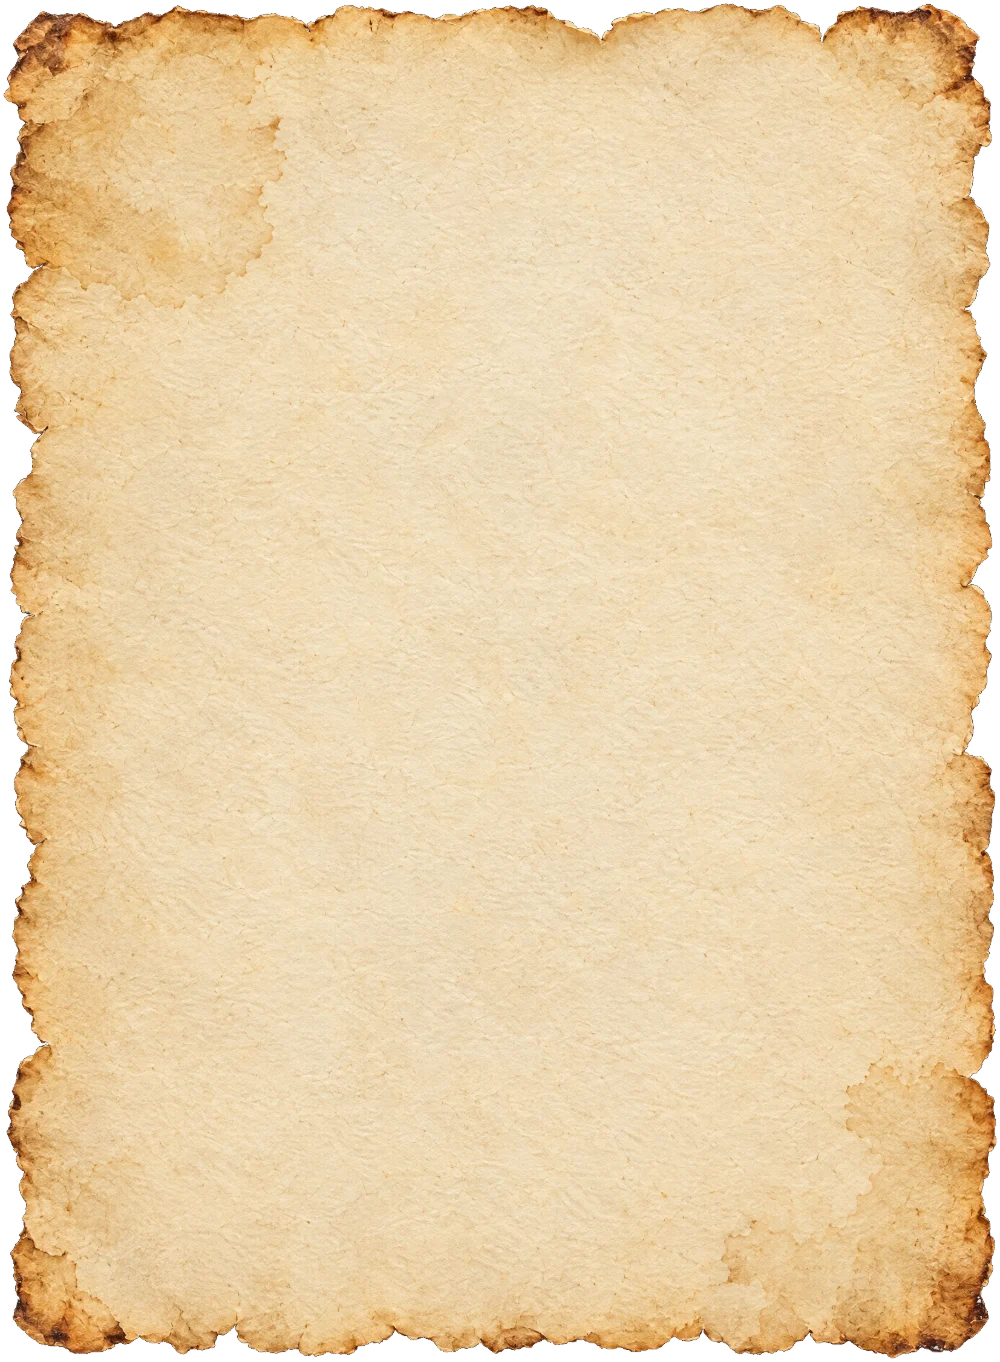
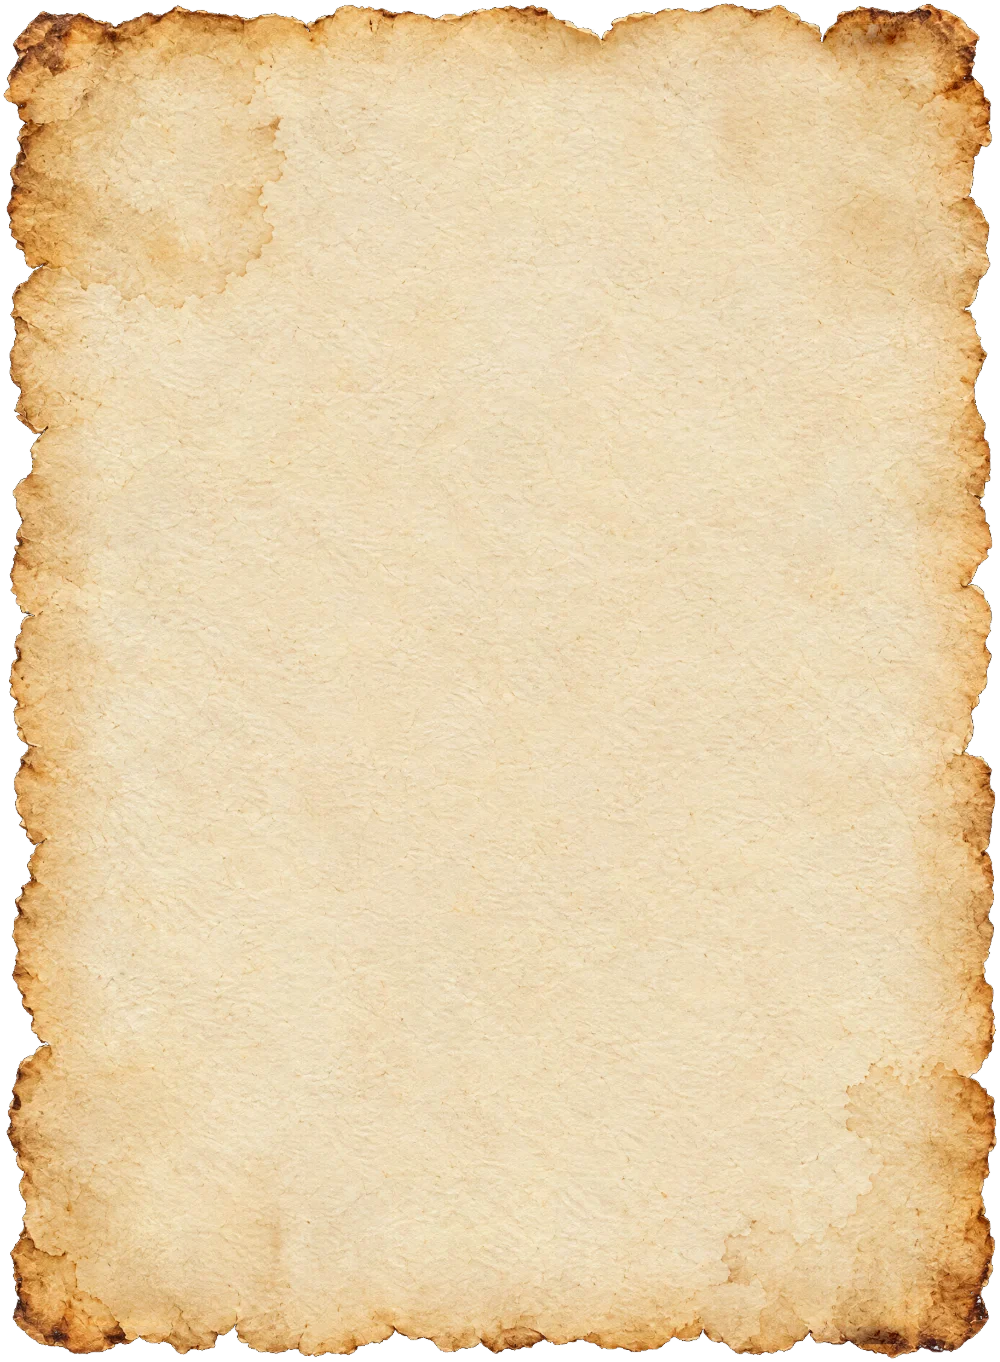
One underline only, spellbook wording, parchment without the seam (he-2026-10-12w)
- Prophet puzzle: the blank is a rule alone, no underscores over it
- First letters: no dotted line under words that already show their length
- Spellbook: the locked first spell reads as a sentence
- Parchment: the tone is evened where the tiled middle meets itself

diff --git a/js/prophet.js b/js/prophet.js
@@ -131,7 +131,7 @@ export function initProphet(app){
       `<section class="dp-ads" aria-label="광고">${iss.ads.map(i => { const [en, ko] = data.ads[i]; return `<div class="dp-ad dp-p"><p class="en" lang="en">${inl(en.replace(/^(\*\*.+?\*\*)\s*·\s*/, '$1'))}</p><p class="ko" hidden>${esc(ko)}</p></div>`; }).join('')}</section>` +
       `<section class="dp-puz"><h2><span lang="en">Puzzle Corner</span><small>퍼즐 코너 · 이번 주 표현</small></h2>` +
         view.puz.map((p, i) => { const got = done[i]; const [b, a] = p.q.split('____');
-          return `<div class="dp-q${got ? ' ok' : ''}" data-q="${i}"><p class="en" lang="en"><span class="no">${i + 1}.</span> ${esc(b)}<span class="blank">${got ? esc(p.a) : '______'}</span>${esc(a)}</p>` +
+          return `<div class="dp-q${got ? ' ok' : ''}" data-q="${i}"><p class="en" lang="en"><span class="no">${i + 1}.</span> ${esc(b)}<span class="blank">${got ? esc(p.a) : '\u00a0'}</span>${esc(a)}</p>` +
             `<p class="ko"${got ? '' : ' hidden'}>${esc(p.ko)}</p>` +
             `<div class="dp-opts">${p.opts.map(o => `<button type="button" data-o="${esc(o)}"${got ? ' disabled' : ''} class="${got && o === p.a ? 'right' : ''}" lang="en">${esc(o)}</button>`).join('')}</div></div>`; }).join('') +
       `</section>` +

diff --git a/js/myroom.js b/js/myroom.js
@@ -114,7 +114,7 @@ export function initMyRoom(app){
       teachers.map(d => `<section class="spl-prof"><h3><i class="seal s-${d.id}"></i>${esc(d.ko)}</h3><ol>${spells.ofProf(d.id).map(sp => {
         if (spells.isLearnt(sp.id)) return `<li><button type="button" data-spell="${sp.id}" class="has"><b lang="en">${esc(sp.name)}</b><span>${esc(sp.ko)}</span>${spells.reviewDue(sp.id) ? '<em>복습할 때</em>' : ''}<i aria-hidden="true">→</i></button></li>`;
         if (spells.isSent(sp.id)) return `<li><button type="button" data-spell="${sp.id}" class="wait"><b lang="en">${esc(sp.name)}</b><span>편지가 왔습니다 · 수업 듣기</span><i aria-hidden="true">→</i></button></li>`;
-        return `<li class="lock"><b>주문 ${sp.n}</b><span>${d.place !== 'corridor' ? esc(spells.condition(sp)) + ' 쪽지가 옵니다' : doors.isOpen(d.id) ? esc(spells.condition(sp)) + '이 되면 편지가 옵니다' : '이 교수의 문을 열면'}</span></li>`;
+        return `<li class="lock"><b>주문 ${sp.n}</b><span>${d.place !== 'corridor' ? esc(spells.condition(sp)) + ' 쪽지가 옵니다' : doors.isOpen(d.id) ? esc(spells.condition(sp)) + ' 편지가 옵니다' : '이 교수의 문을 열면'}</span></li>`;
       }).join('')}</ol></section>`).join('');
   }
 

diff --git a/css/app.css b/css/app.css
@@ -704,7 +704,7 @@ body::after{content:'';position:fixed;inset:0;z-index:45;pointer-events:none;opa
 .ask .cue{font-family:var(--f-display);font-size:calc(22px * var(--k));line-height:1.55;color:var(--ink)}
 .ask .cue.skel{letter-spacing:.01em;word-spacing:.12em}
 .ask .cue.skel i{font-style:normal;color:rgba(42,33,24,.38);letter-spacing:.06em}
-.ask .cue.skel .sk{font:inherit;letter-spacing:inherit;color:inherit;background:none;border:0;border-radius:0;padding:5px 0;margin:0;cursor:pointer;text-decoration:underline dotted rgba(42,33,24,.32);text-underline-offset:6px;-webkit-tap-highlight-color:transparent}
+.ask .cue.skel .sk{font:inherit;letter-spacing:inherit;color:inherit;background:none;border:0;border-radius:0;padding:5px 0;margin:0;cursor:pointer;-webkit-tap-highlight-color:transparent}
 .ask .cue.skel .sk.done{cursor:default;text-decoration:none}
 .ask .cue.skel .sk:focus-visible{outline:2px solid #1F5E8C;outline-offset:2px}
 .ask .cue.skel b.more{font-weight:inherit;color:#1F5E8C}

diff --git a/js/spells.js b/js/spells.js
@@ -31,8 +31,8 @@ const learnedLines = prof => Object.keys(store.deck(prof).cards || {}).length;
 /* what still stands between the learner and a spell, in words (the spellbook shows it on a locked page) */
 export function condition(sp){
   if (sp.prof === 'bellatrix') return "'내 서기'라고 불리고 조카 이야기를 들으면";
-  if (sp.n === 1) return `대사 ${LINES_FOR_FIRST}개 배우기`;
-  return `관계 '${bond.STAGES[sp.n - 1]}'`;
+  if (sp.n === 1) return `대사 ${LINES_FOR_FIRST}개를 배우면`;
+  return `관계 '${bond.STAGES[sp.n - 1]}'이 되면`;
 }
 export function ready(sp){
   if (sp.prof === 'bellatrix') return !!wand.get() && bella.occluReady();   // not a door in the corridor: she decides (bella.js)

diff --git a/sw.js b/sw.js
@@ -1,7 +1,7 @@
 /* Offline: the app shell, all seven decks with their practice files, room paintings, letters and keepsakes are cached on install; everything else (Google Fonts)
    is cached the first time it is fetched. Served from cache first, refreshed in the background.
    Bump VERSION when any file changes so phones pick up the new copy. */
-const VERSION = 'he-2026-10-12v';
+const VERSION = 'he-2026-10-12w';
 const PROFS = ['snape', 'mcgonagall', 'lupin', 'moody', 'umbridge', 'dumbledore', 'slughorn'];
 const CORE = [
   './',
